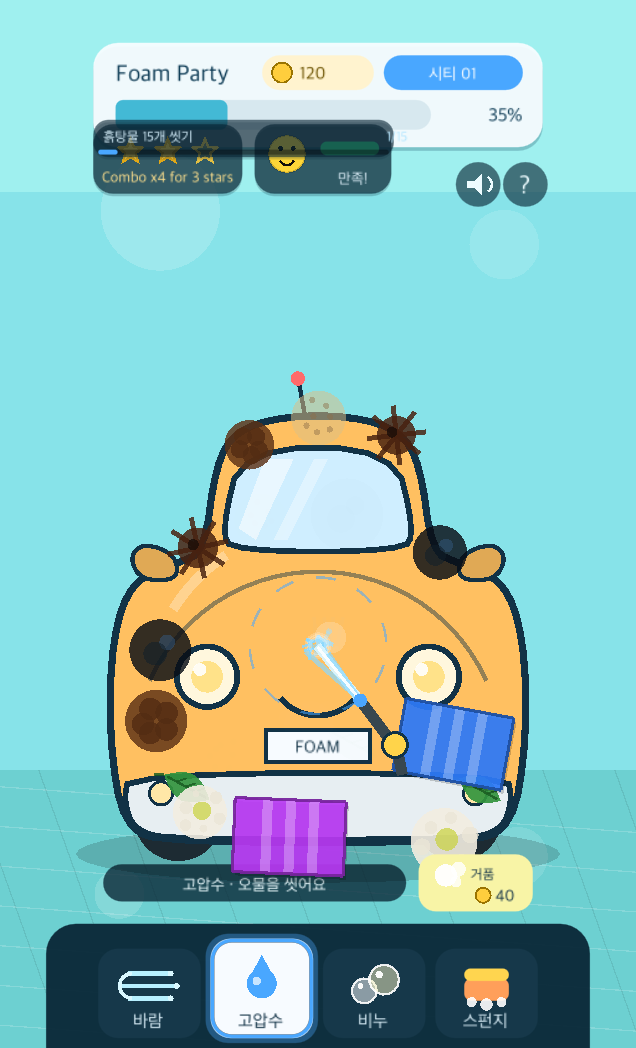
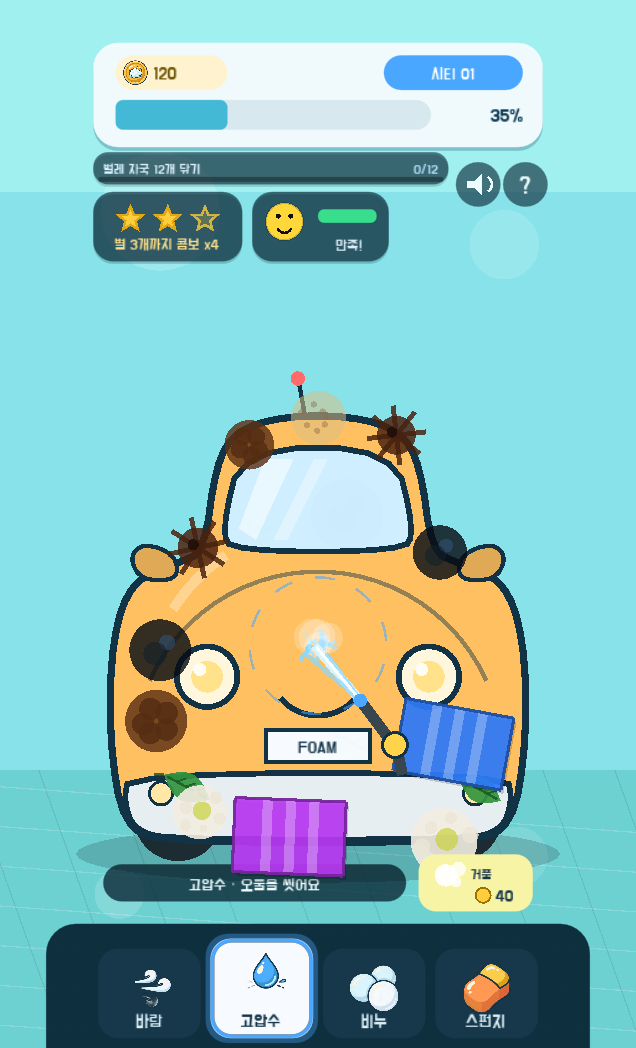
assets: 신규 앱 아이콘(폼/거품) + 3마켓 스크린샷 갱신 UI 재캡처 (#128)
UI 개편(HUD 재배치·flat-vector 툴 아이콘·코인/별) 반영 및 앱 아이콘 리디자인.

아이콘: Gemini(gemini-3-pro-image)로 게임 style anchor 기준 폼/거품 클로즈업
flat-vector 아이콘 생성(둥근모서리·알파 없는 full-bleed 사각형). 슬롯 반영:
- app-store/assets/icon-1024.png (App Store 마케팅/빌드 아이콘 소스)
- godot/assets/AppIcon.png (Godot 전 플랫폼 export 소스), godot/icon-192.png (web)
- play-store/assets/icon-512.png (Play 리스팅 아이콘)
- apps-in-toss/assets/foam-party-logo-600.png (AIT 로고)
- 생성 소스/매니페스트: godot/assets/art/icon-{manifest.json,src/}(icon-src는 gitignore)

스크린샷: registration_shot_scene 로 현재 UI 실제 렌더 재캡처(start/wash/result).
- App Store en-US iPhone 6.9" 1290x2796 (영어 UI)
- Google Play phone 1080x1920 (영어 UI)
- AIT 세로 636x1048 (한글 UI)

AIT registration.md: 로고/스크린샷 갱신 주석 반영(텍스트 등록정보는 기존 유지).

diff --git a/apps-in-toss/registration.md b/apps-in-toss/registration.md
@@ -44,11 +44,11 @@
 | 항목 | 값 | 비고 |
 | --- | --- | --- |
 | 카테고리 | 게임 > 캐주얼 | 웹보드 게임 아님 (체크 불필요) |
-| 앱 로고 | `apps-in-toss/assets/foam-party-logo-600.png` | 600×600 PNG, 배경색 필수(투명 불가), 라운드 마스크 금지 |
+| 앱 로고 | `apps-in-toss/assets/foam-party-logo-600.png` | 600×600 PNG, 배경색 필수(투명 불가), 라운드 마스크 금지. **2026-07-09 신규 아이콘(폼/거품 클로즈업 flat-vector)으로 교체** |
 | 썸네일 | `apps-in-toss/assets/foam-party-thumbnail-1932x828.png` | 1932×828 PNG, 핵심 플레이 화면 |
-| 스크린샷 1 | `apps-in-toss/assets/screenshots/foam-party-start-636x1048.png` | 세로형 636×1048, 시작 화면 |
-| 스크린샷 2 | `apps-in-toss/assets/screenshots/foam-party-main-636x1048.png` | 세차 플레이 (핵심 인터랙션) |
-| 스크린샷 3 | `apps-in-toss/assets/screenshots/foam-party-result-636x1048.png` | 별점/코인 결과 화면 |
+| 스크린샷 1 | `apps-in-toss/assets/screenshots/foam-party-start-636x1048.png` | 세로형 636×1048, 시작 화면. **2026-07-09 갱신 UI 재캡처** |
+| 스크린샷 2 | `apps-in-toss/assets/screenshots/foam-party-main-636x1048.png` | 세차 플레이 (핵심 인터랙션). **갱신 UI 재캡처** |
+| 스크린샷 3 | `apps-in-toss/assets/screenshots/foam-party-result-636x1048.png` | 별점/코인 결과 화면. **갱신 UI 재캡처** |
 | 리더보드 | 미사용 | MVP는 점수 랭킹 없음. 도입 시 점수 단위/정렬 정책 등록 |
 
 ## 4. 게임 등급분류 (출시 gate, 필수)
